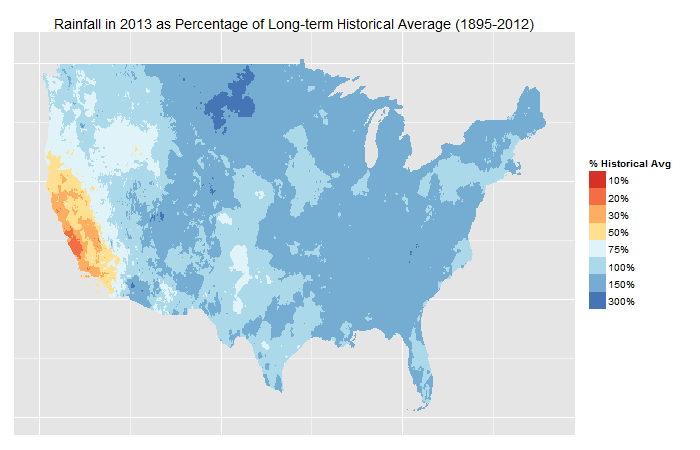
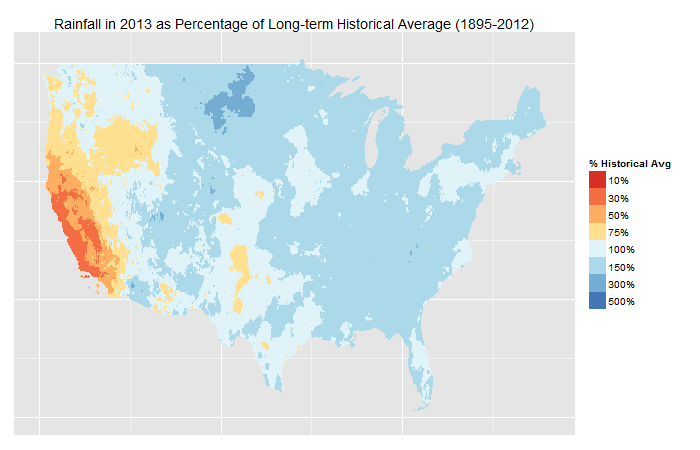
code revised to make the colorbar such that deficits have red shades and excesses have blue shades

diff --git a/README.md b/README.md
@@ -1,4 +1,4 @@
-Analysis of High-Resolution Rainfall Data from PRISM
+USA Drought of 2013: Analysis of High-Resolution Rainfall Data Using R
 ========================================================
 
 The ongoing drought in California and other parts of Southwestern United States has been reported extensively by [newspapers](http://www.mercurynews.com/science/ci_24812749/california-drought-deepens-another-years-rains-stay-away) and [government sites](http://droughtmonitor.unl.edu/).
@@ -103,9 +103,9 @@ Fn_Discretize_Fraction <- function(in_mat) {
     in_mat <- Fn_Rotate_Matrix(in_mat)
     in_mat[in_mat <= 0] <- NA
     in_mat <- melt(in_mat)
-    in_mat$colorScale <- cut(in_mat$value, breaks = c(0, 0.1, 0.2, 0.3, 0.5, 
-        0.75, 1, 1.5, 3), labels = c("10%", "20%", "30%", "50%", "75%", "100%", 
-        "150%", "300%"), include.lowest = TRUE)
+    in_mat$colorScale <- cut(in_mat$value, breaks = c(0, 0.1, 0.3, 0.5, 0.75, 
+        1, 1.5, 3, 5), labels = c("10%", "30%", "50%", "75%", "100%", "150%", 
+        "300%", "500%"), include.lowest = TRUE)
     
     return(in_mat)
 }
